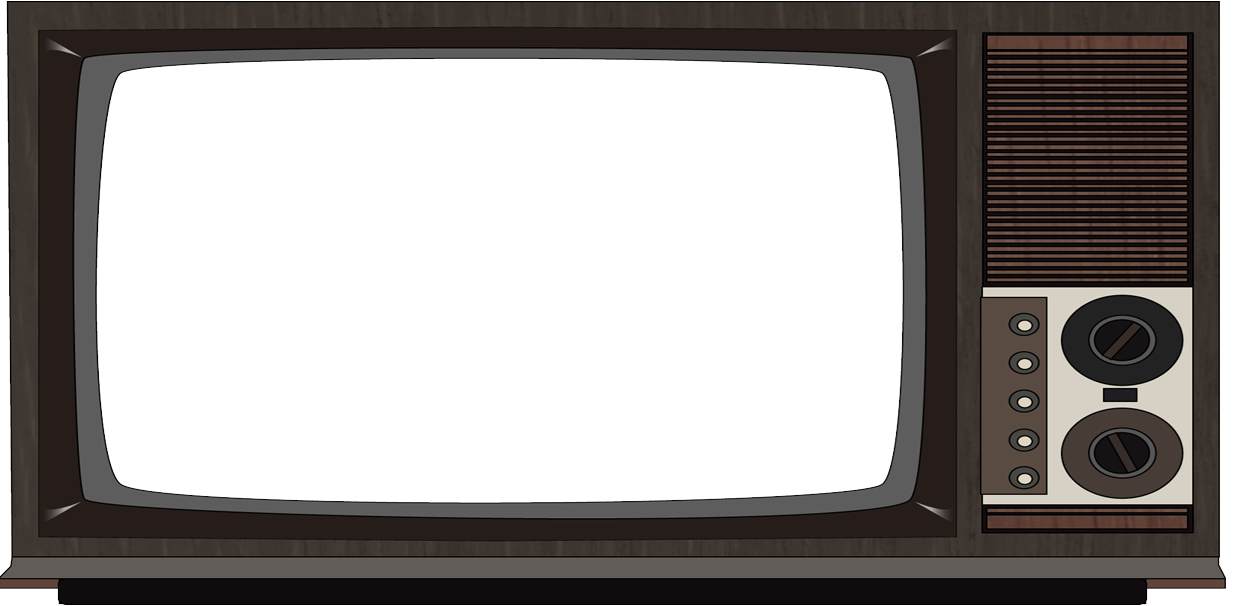
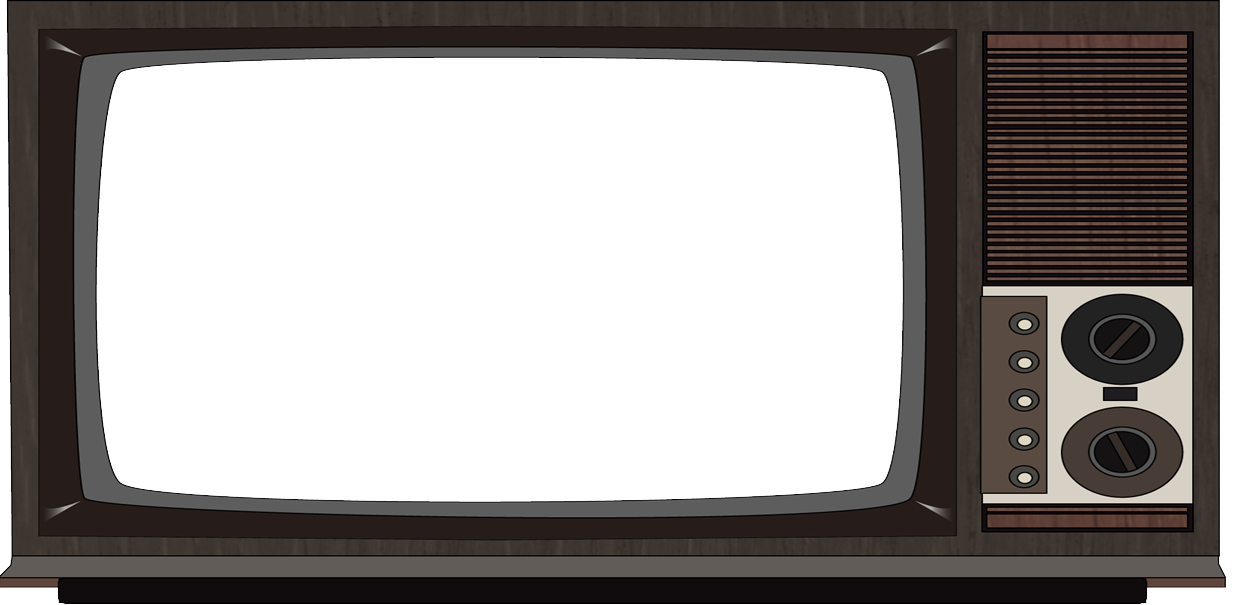
commit

diff --git a/Other/index.html b/Other/index.html
@@ -10,6 +10,12 @@
     <link rel="preconnect" href="https://fonts.gstatic.com" crossorigin>
     <link href="https://fonts.googleapis.com/css2?family=Slackey&display=swap" rel="stylesheet">
     <link href="https://fonts.googleapis.com/css2?family=Happy+Monkey&display=swap" rel="stylesheet">
+    <link
+        href="https://fonts.googleapis.com/css2?family=Happy+Monkey&family=Poppins:ital,wght@0,100;0,200;0,300;0,400;0,500;0,600;0,700;0,800;0,900;1,100;1,200;1,300;1,400;1,500;1,600;1,700;1,800;1,900&display=swap"
+        rel="stylesheet">
+    <link
+        href="https://fonts.googleapis.com/css2?family=Electrolize&family=Happy+Monkey&family=Poppins:ital,wght@0,100;0,200;0,300;0,400;0,500;0,600;0,700;0,800;0,900;1,100;1,200;1,300;1,400;1,500;1,600;1,700;1,800;1,900&display=swap"
+        rel="stylesheet">
 
 
     <style>
@@ -19,11 +25,14 @@
 
         body {
             margin: 0;
+            border-top: 0;
             /* background-image: url('../body_background.jpg'); */
         }
 
         #container {
-            background-image: url('../body_background.jpg');
+            /* background-image: url('background1.jpg');
+            background-repeat: no-repeat; */
+            background-image: linear-gradient(to right, #b2b9b7, #5f7973);
             width: 100%;
             display: grid;
             grid-template-areas: 'title title' 'contact contact' 'game projects';
@@ -37,7 +46,8 @@
             display: inline-block;
             align-items: center;
             /* font-family: "Slackey", sans-serif; */
-            font-family: "Happy Monkey", system-ui;
+            /* font-family: "Happy Monkey", system-ui; */
+            font-family: "Poppins", sans-serif;
             font-weight: 800;
             font-style: normal;
             opacity: 0;
@@ -47,17 +57,21 @@
             margin: 0;
             font-family: Verdana, Geneva, Tahoma, sans-serif;
             color: #0f0f0f;
-            background-color: #fca9ac;
+            /* background-color: #fca9ac; */
+            background-color: #222121;
+            color: white;
             text-align: center;
             border-radius: 0.5vw 0.5vw 0 0;
         }
 
         h3 {
-            width: max-content;
-            margin: 1vw auto 0vw auto;
-            font-family: Verdana, Geneva, Tahoma, sans-serif;
-            color: #fe4141;
-            background-color: rgb(252, 246, 239);
+            width: 20%;
+            padding: 0.5vw 0.5vw;
+            /* margin: 0vw auto 0vw auto; */
+            /* font-family: Verdana, Geneva, Tahoma, sans-serif; */
+            font-family: "Electrolize", sans-serif;
+            color: #00ff4c;
+            background-color: rgb(37, 38, 91);
             text-align: center;
         }
 
@@ -66,8 +80,12 @@
             top: 2vw;
             left: 50%;
             transform: translate(-50%, 0%);
-            z-index: 0;
-            background-image: linear-gradient(to right, rgba(255, 255, 255, 0.3), rgba(255, 255, 255, 0));
+            z-index: 1;
+        }
+
+        #tvDiv {
+            width: 100%;
+            position: absolute;
         }
 
         #helloWorld,
@@ -75,14 +93,14 @@
             grid-area: helloWorld;
             position: absolute;
             transform: translate(-50%, 0%);
-            z-index: -1;
+            z-index: 0;
         }
 
         #buttons {
-            width: 60%;
+            width: 55%;
             height: max-content;
             background-color: #281206;
-            border: 0.05vw solid rgb(196, 196, 196);
+            /* border: 0.05vw solid rgb(167, 166, 166); */
             margin: 0 auto;
             padding: 0.5vw;
             position: relative;
@@ -91,13 +109,15 @@
             display: flex;
             justify-content: center;
             align-items: center;
+            border-radius: 0.3vw 0.3vw 0 0;
         }
 
         #hello {
             width: 100%;
-            height: auto;
+            height: 7vw;
             text-align: center;
-            margin: 4vw auto;
+            background-color: #647470;
+            /* margin: 4vw auto; */
         }
 
         p {
@@ -187,34 +207,45 @@
 
 <body>
 
-    <img id="hole2" src="hole2.png"><img id="hole" src="hole.png"><img id="crack2" src="crack2.png"><img id="crack"
-        src="crack.png"><img id="tv" src="tv.png"><video id="helloWorld" autoplay muted loop poster="OtherBack.jpg">
-        <source src="HelloWorld_Other.mp4">
-    </video>
-    <video id="helloWorldGlitch" autoplay muted loop poster="OtherBack.jpg">
-        <source src="Glitch_helloWorld.mp4">
-    </video>
+    <!-- <div id="hello" style="grid-area: title;">
+        <h1 id="H">H</h1>
+        <h1 id="E">E</h1>
+        <h1 id="L1">L</h1>
+        <h1 id="L2">L</h1>
+        <h1 id="O">O</h1>
+        <h1 id="exclamation">!</h1>
+    </div> -->
 
-    <div id="buttons">
-        <button id="home" title="Go to Home Page">HOME</button>
-        <button id="stopVideo" title="Stop the video">🟥</button>
-        <button id="startVideo" title="Restart the video">▶</button>
-    </div>
+    <!-- <div id="tvDiv">
+        <img id="hole2" src="hole2.png"><img id="hole" src="hole.png"><img id="crack2" src="crack2.png"><img id="crack"
+            src="crack.png"><img id="tv" src="tv.png"><video id="helloWorld" autoplay muted loop poster="OtherBack.jpg">
+            <source src="HelloWorld_Other.mp4">
+        </video>
+        <video id="helloWorldGlitch" autoplay muted loop poster="OtherBack.jpg">
+            <source src="Glitch_helloWorld.mp4">
+        </video>
 
-    <h3 id="broken_note"></h3>
+        <div id="buttons">
+            <button id="home" title="Go to Home Page">HOME</button>
+            <button id="stopVideo" title="Stop the video">🟥</button>
+            <button id="startVideo" title="Restart the video">▶</button>
+        </div>
 
-    <button id="repair"></button>
+        <h3 id="broken_note"></h3>
+
+        <button id="repair"></button>
+    </div> -->
 
     <div id="container">
 
-        <div id="hello" style="grid-area: title;">
+        <!-- <div id="hello" style="grid-area: title;">
             <h1 id="H">H</h1>
             <h1 id="E">E</h1>
             <h1 id="L1">L</h1>
             <h1 id="L2">L</h1>
             <h1 id="O">O</h1>
             <h1 id="exclamation">!</h1>
-        </div>
+        </div> -->
 
         <div id="contact" style="grid-area: contact;">
             <h2 id="contactTitle" style="grid-area: contactTitle;">What brought you to my<br />portfolio website?</h2>
@@ -241,7 +272,7 @@
             </div>
         </div>
 
-        <div id="game" style="grid-area: game;">
+        <!-- <div id="game" style="grid-area: game;">
             <h2>What brought you to my portfolio website?</h2>
             <p>
                 Have anything tech-related to talk about?
@@ -253,18 +284,42 @@
             <p>
                 Have anything tech related to talk about?
             </p>
+        </div> -->
+    </div>
+
+    <div id="tvDiv">
+        <img id="hole2" src="hole2.png"><img id="hole" src="hole.png"><img id="crack2" src="crack2.png"><img id="crack"
+            src="crack.png"><img id="tv" src="tv.png"><video id="helloWorld" autoplay muted loop poster="OtherBack.jpg">
+            <source src="HelloWorld_Other.mp4">
+        </video>
+        <video id="helloWorldGlitch" autoplay muted loop poster="OtherBack.jpg">
+            <source src="Glitch_helloWorld.mp4">
+        </video>
+
+        <div id="buttons">
+            <button id="home" title="Go to Home Page">HOME</button>
+            <button id="stopVideo" title="Stop the video">🟥</button>
+            <button id="startVideo" title="Restart the video">▶</button>
         </div>
+
+        <div id="cdNote">
+            <img src="cdPlayer.jpg" id="cdPlayer">
+            <h3 id="broken_note"></h3>
+        </div>
+
+        <button id="repair"></button>
     </div>
 
     <div id="toast">Email ID copied to clipboard</div>
 
     <script>
-        document.querySelector("#hello").addEventListener('click', function () {
-            document.getAnimations().forEach(function (anim) {
-                anim.cancel();
-                anim.play();
-            })
-        })
+
+        // document.querySelector("#hello").addEventListener('click', function () {
+        //     document.getAnimations().forEach(function (anim) {
+        //         anim.cancel();
+        //         anim.play();
+        //     })
+        // })
 
 
         let broken = 0;
@@ -282,8 +337,9 @@
             $('#hole2').hide();
             $('#helloWorldGlitch').hide();
             $('#repair').hide();
-            document.querySelector('#broken_note').innerText = "[Note : Do not touch the TV, it is very old and might break. In case you're curious, try it, ONCE.]";
+            document.querySelector('#broken_note').innerHTML = "<marquee>[Note : Do not touch the TV, it is very old and might break. In case you're curious, try it, ONCE.]</marquee>";
             document.querySelector('#repair').innerText = "Repair the TV";
+            document.querySelector('marquee').setAttribute('scrollamount', '4');
         })
 
         document.querySelector("#tv").addEventListener('click', function () {
@@ -299,10 +355,10 @@
                     broken = 1;
                     brokeCount += 1;
                     if (brokeCount == 1) {
-                        document.querySelector('#broken_note').innerText = "Told you so...\nPlease get it repaired now\n▼";
+                        document.querySelector('#broken_note').innerHTML = "<marquee>Told you so. Please get it repaired now ▼</marquee>";
                     } else if (brokeCount > 1) {
                         if (brokeCount == 2) {
-                            document.querySelector('#broken_note').innerText = "I see you're starting to enjoy this...\nPlease get the TV repaired\n▼";
+                            document.querySelector('#broken_note').innerHTML = "<marquee>I see you're starting to enjoy this. Please get the TV repaired ▼<marquee>";
                         } else if (brokeCount == 3) {
                             document.querySelector('#broken_note').innerText = "You broke it the third time?! Damn, my TV technician is getting rich...\nWilling to get it repaired?\n▼";
                         } else if (brokeCount == 4) {

diff --git a/Other/laptopCSS.css b/Other/laptopCSS.css
@@ -4,13 +4,12 @@ body {
 
 #container {
     column-gap: 2vw;
-    background-size: 30vw;
 }
 
 h1 {
     padding: 0vw 0.5vw;
     font-weight: 900;
-    -webkit-text-stroke: 0.05px #432b1d;
+    -webkit-text-stroke: 1px #432b1d;
 }
 
 h2 {
@@ -19,17 +18,32 @@ h2 {
     padding: 1.5vw 10vw;
 }
 
+#cdPlayer {
+    width: 56%;
+    height: 5vw;
+    position: relative;
+    left: 50%;
+    transform: translate(-50%, 0%);
+    margin-bottom: 4vw;
+}
+
 h3 {
     font-size: 1vw;
-    font-weight: 100;
-    padding: 1vw;
-    border-radius: 1vw;
-    border: 0.2vw solid #464646;
+    font-weight: 400;
+    /* border: 0.2vw solid #464646; */
     margin-bottom: 2vw;
+    position: absolute;
+    z-index: 3;
+    left: 50%;
+    transform: translate(-50%, 0%);
+}
+
+#cdNote {
+    display: flex;
 }
 
 #tv {
-    width: 75%;
+    width: 50%;
 }
 
 #crack {
@@ -102,9 +116,9 @@ h3 {
 
 #helloWorld,
 #helloWorldGlitch {
-    max-width: 50%;
-    left: 43%;
-    top: 5vw;
+    max-width: 34%;
+    left: 45%;
+    top: 4vw;
 }
 
 #hello:hover,

diff --git a/Other/mobileCSS.css b/Other/mobileCSS.css
@@ -4,7 +4,7 @@ body {
 
 #container {
     column-gap: 4vw;
-    background-size: 70vw;
+    /* background-size: 70vw; */
 }
 
 h1 {
